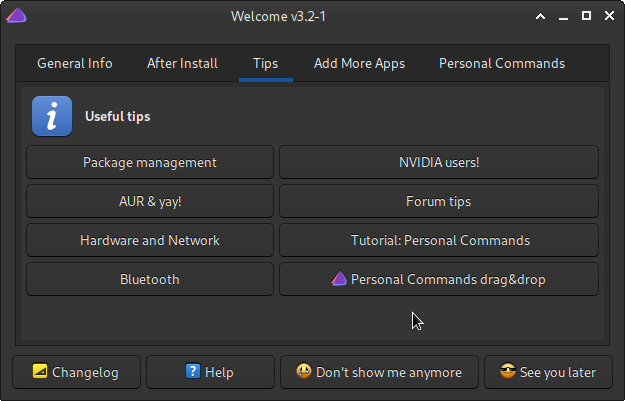
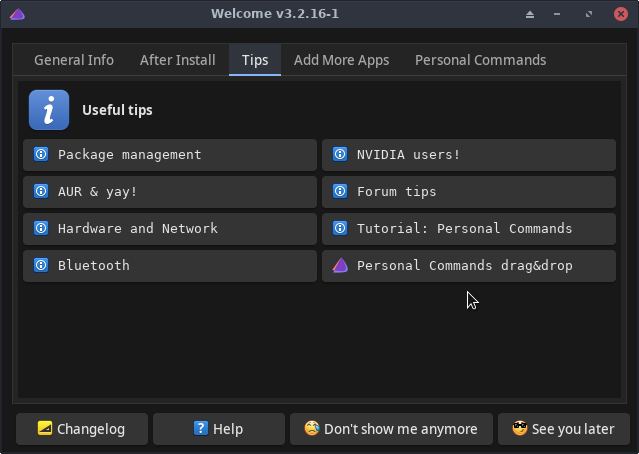
documented button alignment; small code reorganization

diff --git a/welcome/Adding-own-commands.md b/welcome/Adding-own-commands.md
@@ -94,7 +94,9 @@ local welcome_own_commands=(
 local activate_own_commands_tab=yes
 local columns_for_own_commands=2
 </pre>
+
 ## Example (advanced, assumes knowledge about bash language)
+
 This example shows how to use bash functions in the command string.<br>
 After writing your bash function, there are two "additional" things to remember:
 - export your bash function with: `export -f`
@@ -136,6 +138,20 @@ local welcome_own_commands=(
 
 </pre>
 
+## Example (another advanced example, showing how to align texts on the new buttons)
+
+Welcome's version 3.2.14 added support to automatically align the texts on the buttons under a tab.<br>
+To align texts on the buttons, *mark* the **name** element with `_align(name)`.<br>
+The following code shows it:
+
+<pre>
+local welcome_own_commands=(
+    --field="_align(A Kernel Manager)!system-software-install!Simple kernel manager and info source":fbtn  "akm"
+    --field="_align(Mousepad)!accessories-text-editor!Mousepad text editor":fbtn                           "mousepad"
+    --field="_align(Firefox web browser)!firefox-default!Browse the web with Firefox":fbtn                 "firefox"
+)
+</pre>
+<br>
 *Tip*: If you start Welcome from the terminal with command `eos-welcome`, you can get some "debugging" output to the terminal that may be useful for later analysis.
 
 ## Drag & drop items into the configuration file!
